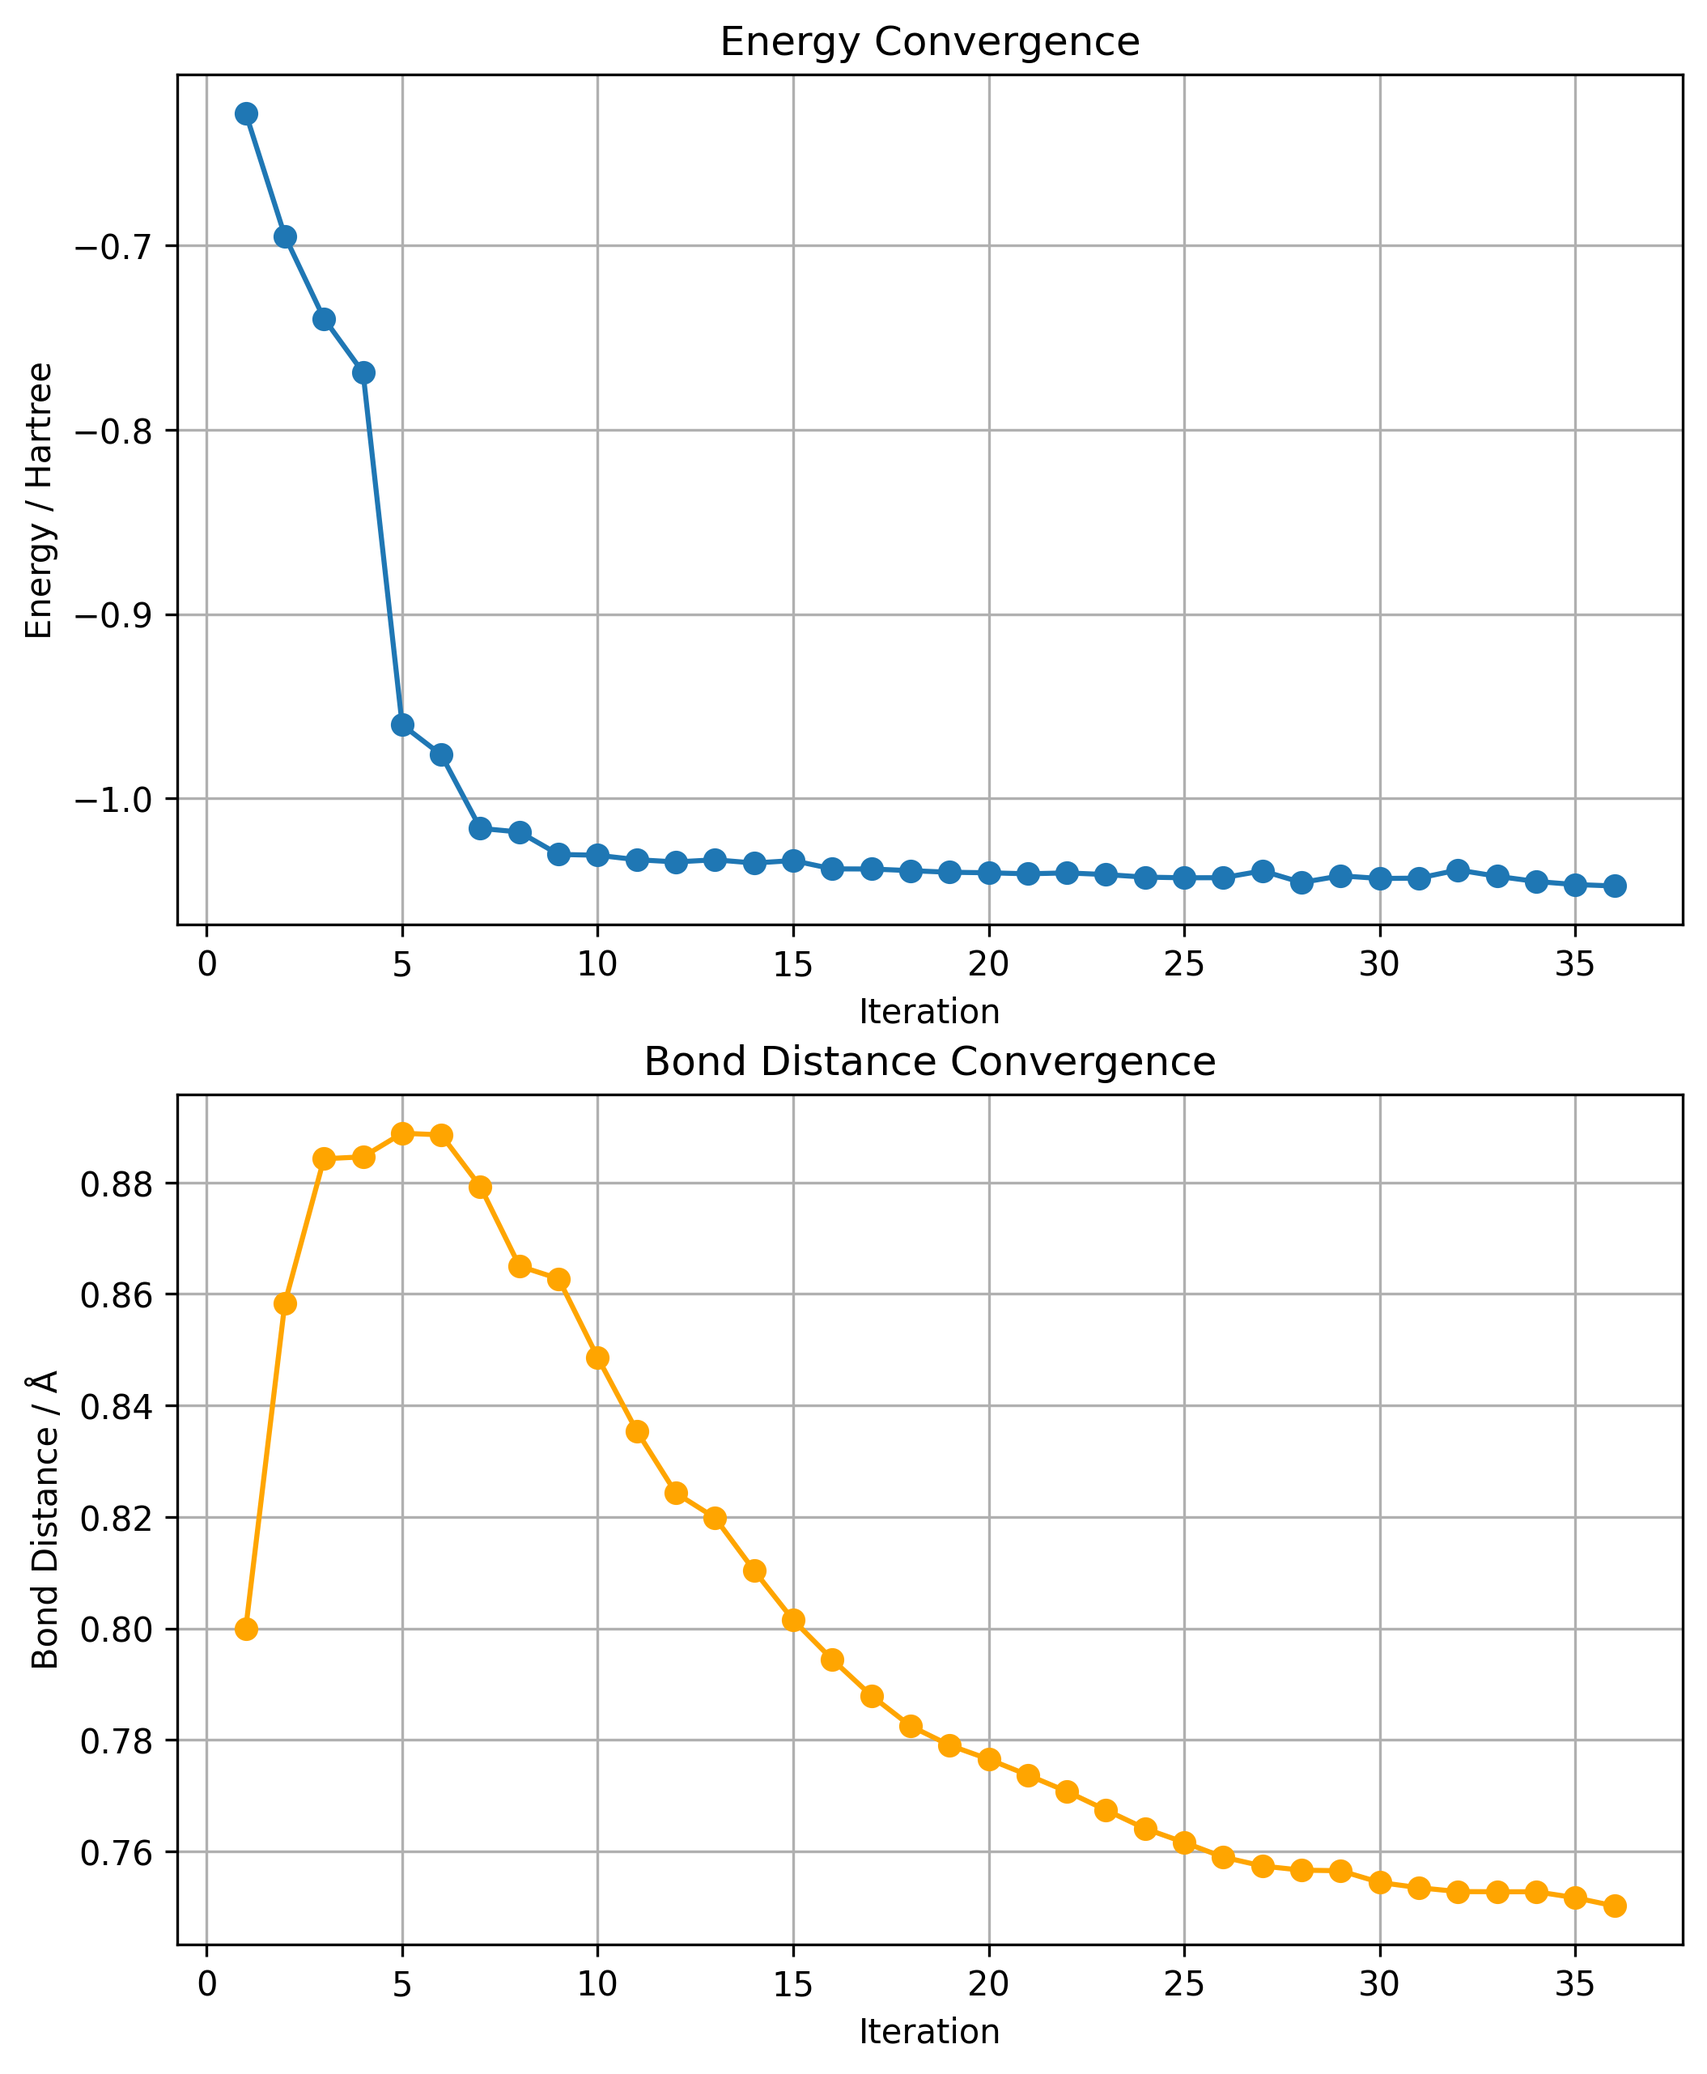
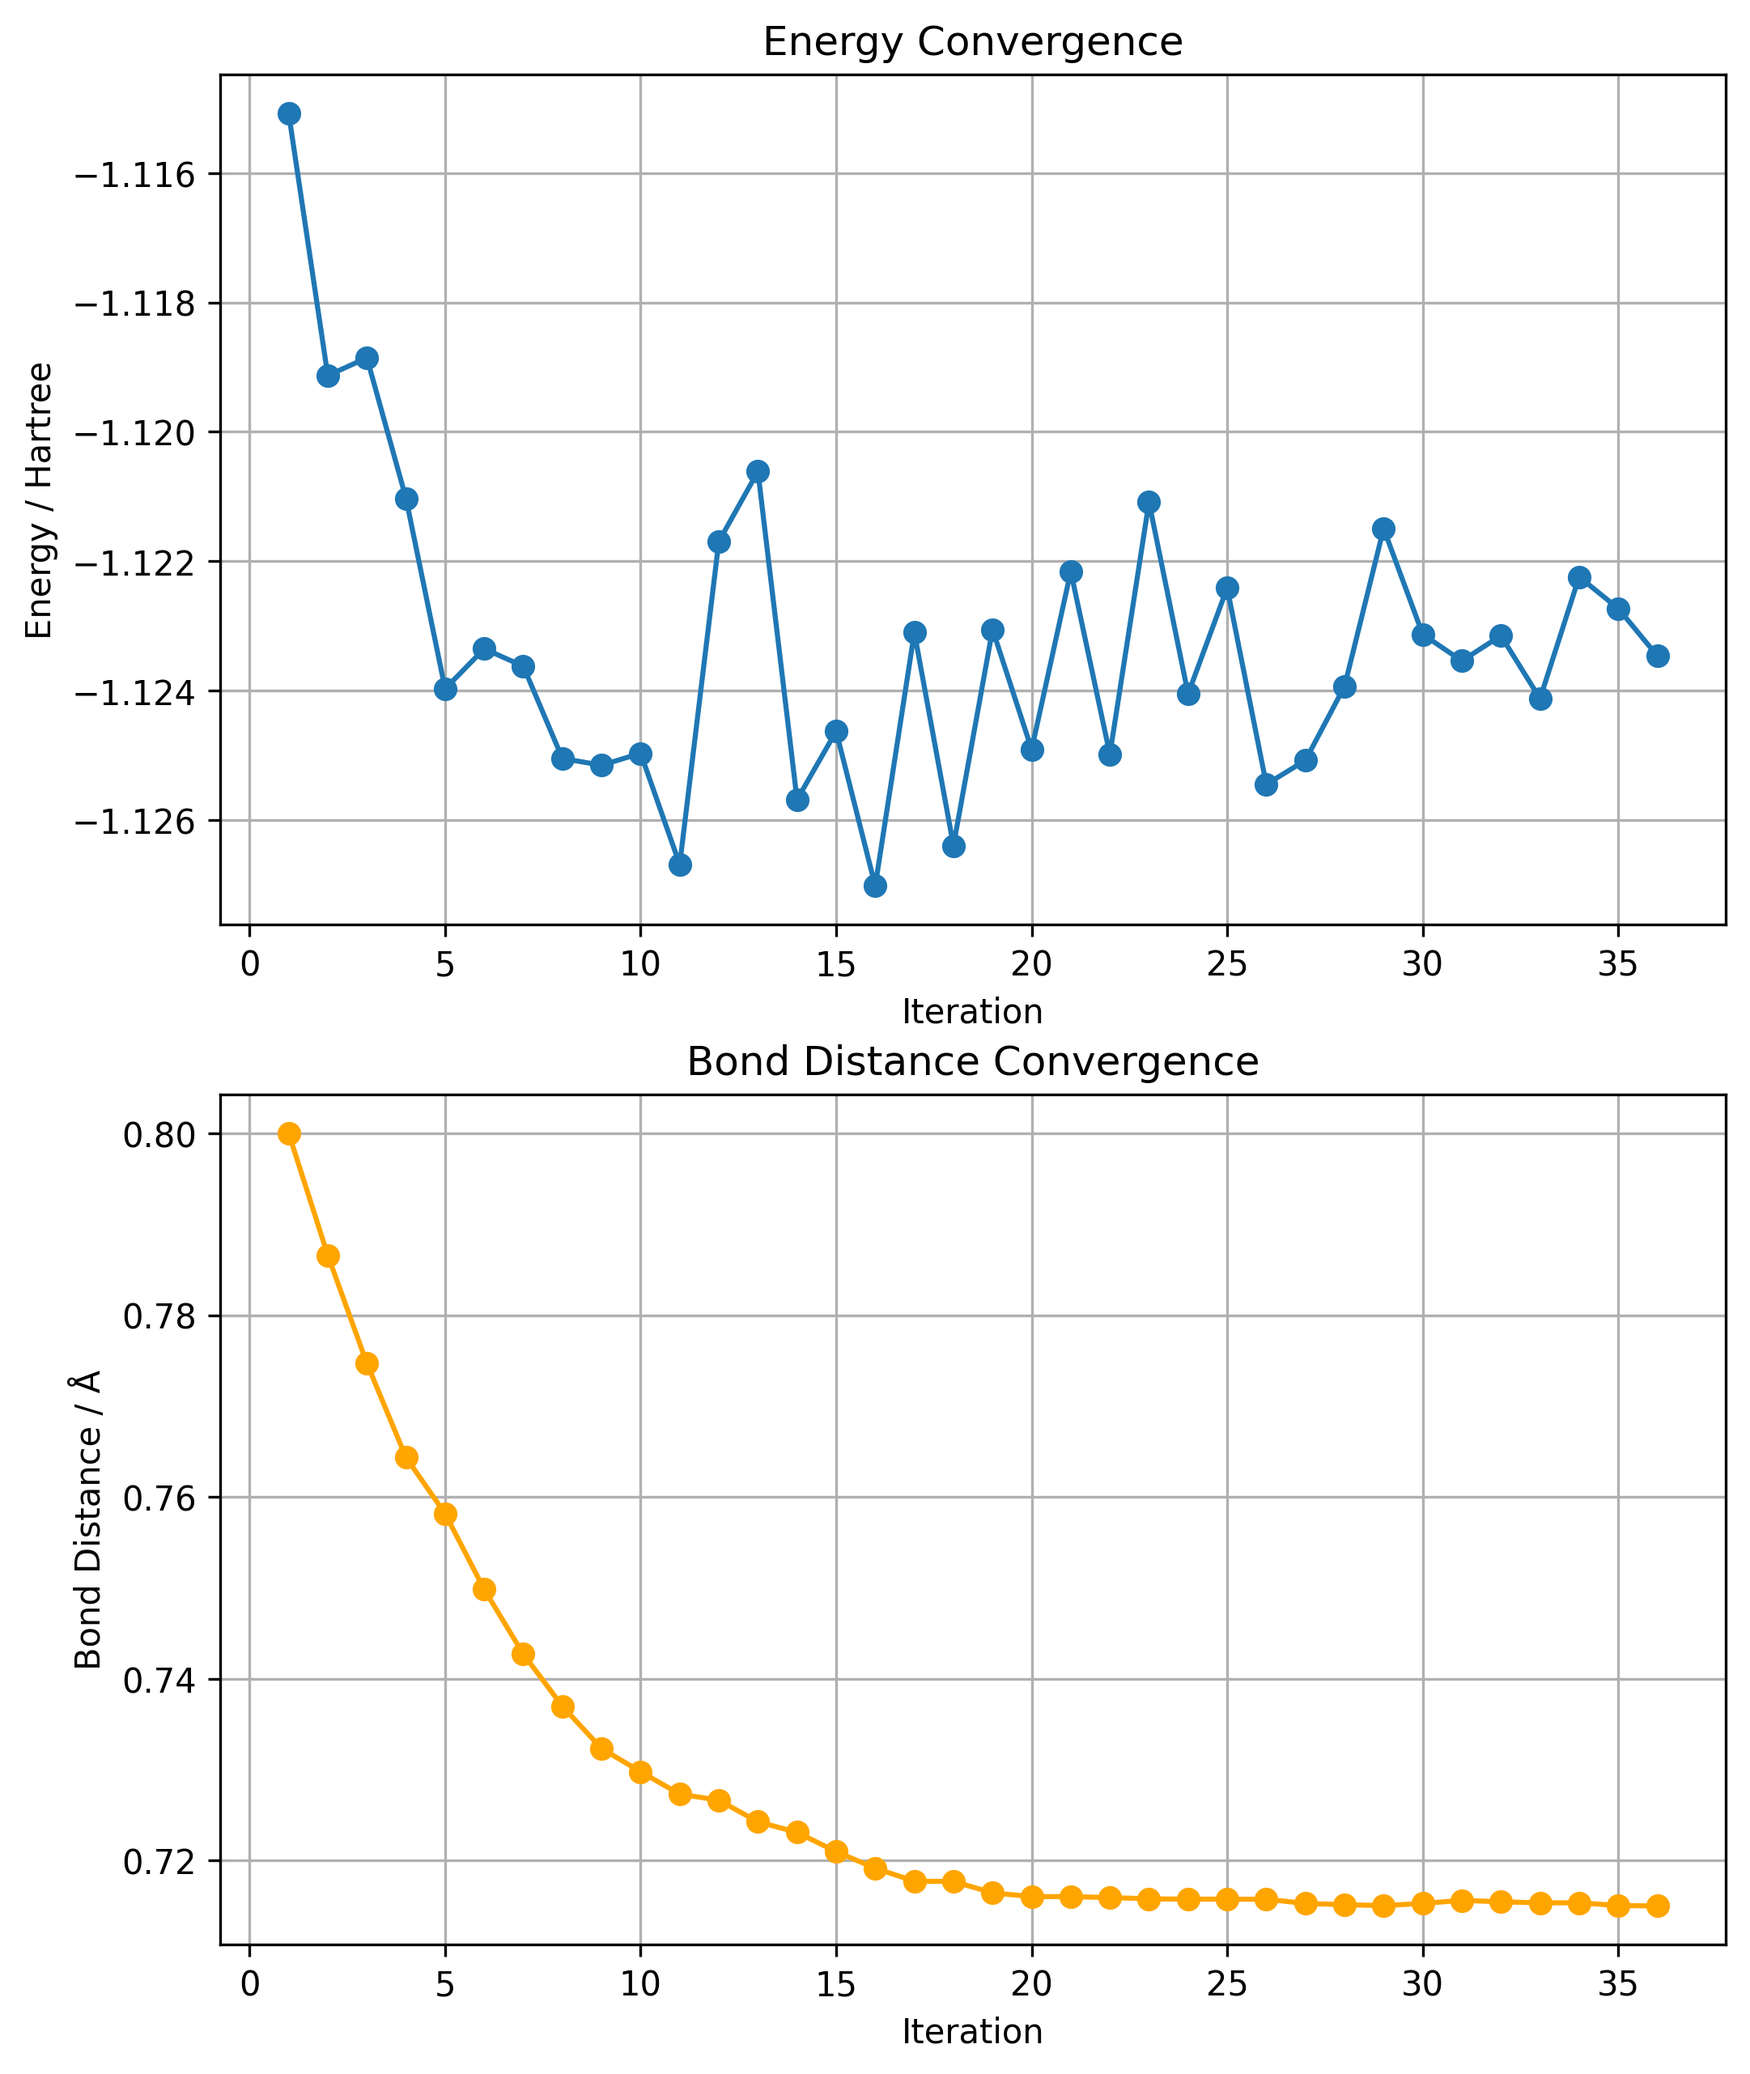
Update geometry optimization parameters and results logging

diff --git a/main.py b/main.py
@@ -3,7 +3,6 @@ from qiskit_aer import AerSimulator
 
 import modules.molecule as molecule
 import modules.hamiltonian as hamiltonian
-import modules.mapping as mapping
 import modules.ansatz as ansatz_module
 import modules.optimization as optimization
 import modules.comparison as comparison
@@ -62,7 +61,7 @@ if __name__ == "__main__":
 
     # Compare the influence of ansatz depth on VQE optimization
     # comparison.influence_ansatz_depth(mf, backend, out_file)
-    
+
     # Comparison of Jordan-Wigner and Bravyi-Kitaev Mappings
     # comparison.compare_mappings(ecore, h1e, h2e, out_file)
 
@@ -78,14 +77,17 @@ if __name__ == "__main__":
 
     # Run Geometry Optimization
     if mol.natm == 2:
+        coords = np.array([mol.atom[i][1] for i in range(mol.natm)])
+        initial_distance = np.linalg.norm(coords[1] - coords[0])
+
         energies, distances, optimal_params, optimal_distance = (
             optimization.geometry_optimization_diatomic(
                 ansatz=ansatz,
                 backend=backend,
                 out_file=out_file,
-                initial_distance=0.8,
+                initial_distance=initial_distance,
                 method=vqe_optimizer,
-                convergence_threshold=1e-4,
+                convergence_threshold=1e-3,
                 step_method="backtracking",
                 max_iterations=36,
                 options={"maxiter": 100},
@@ -97,7 +99,7 @@ if __name__ == "__main__":
 
         vec1 = coords[1] - coords[0]
         vec2 = coords[2] - coords[0]
-        
+
         R1 = np.linalg.norm(vec1)
         R2 = np.linalg.norm(vec2)
 
@@ -121,12 +123,12 @@ if __name__ == "__main__":
                 atom_labels=atom_labels,
                 initial_geometry=initial_geometry,
                 max_iterations=30,
-                convergence_threshold=1e-4,
+                convergence_threshold=1e-3,
                 method=vqe_optimizer,
                 step_size=0.05,
                 basis=basis,
-                ncas=ncas,  # 4 active orbitals for water
-                nelecas=nelecas,  # 4 electrons in active space
+                ncas=ncas,
+                nelecas=nelecas,
                 options={"maxiter": 100},
             )
         )
